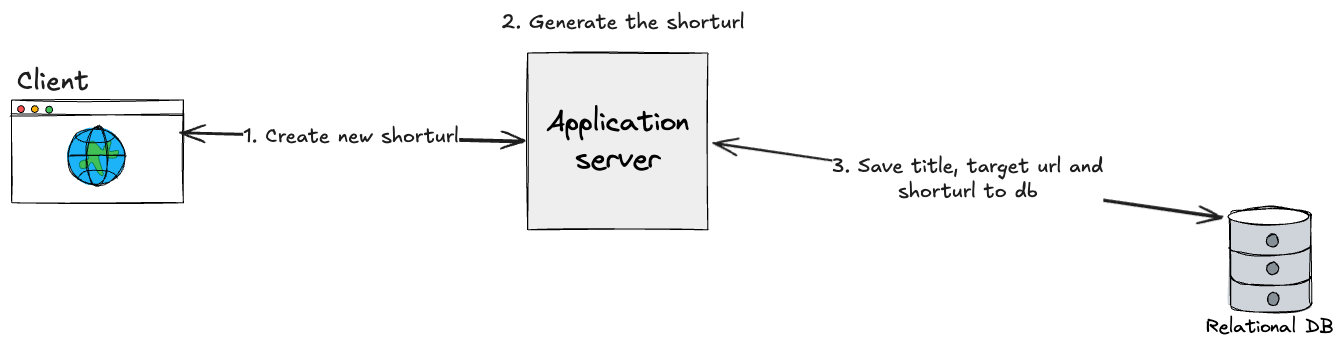
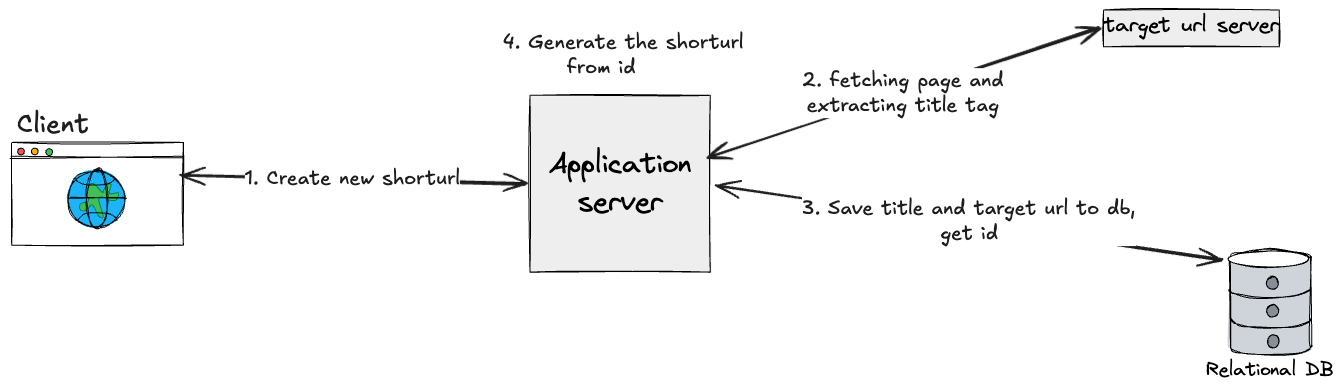
fix: change title & target_url type to text
Changing the type to text should allow longer titles and target_urls to
be supported.

diff --git a/db/schema.rb b/db/schema.rb
@@ -10,7 +10,7 @@
 #
 # It's strongly recommended that you check this file into your version control system.
 
-ActiveRecord::Schema[8.1].define(version: 2026_05_19_142056) do
+ActiveRecord::Schema[8.1].define(version: 2026_05_20_075006) do
   # These are extensions that must be enabled in order to support this database
   enable_extension "pg_catalog.plpgsql"
 
@@ -27,8 +27,8 @@ ActiveRecord::Schema[8.1].define(version: 2026_05_19_142056) do
 
   create_table "shorturls", force: :cascade do |t|
     t.datetime "created_at", null: false
-    t.string "target_url"
-    t.string "title"
+    t.text "target_url"
+    t.text "title"
     t.datetime "updated_at", null: false
   end
 

diff --git a/db/migrate/20260520075006_change_title_target_url_in_shorturls.rb b/db/migrate/20260520075006_change_title_target_url_in_shorturls.rb
@@ -1,0 +1,6 @@
+class ChangeTitleTargetUrlInShorturls < ActiveRecord::Migration[8.1]
+  def change
+    change_column :shorturls, :title, :text
+    change_column :shorturls, :target_url, :text
+  end
+end
